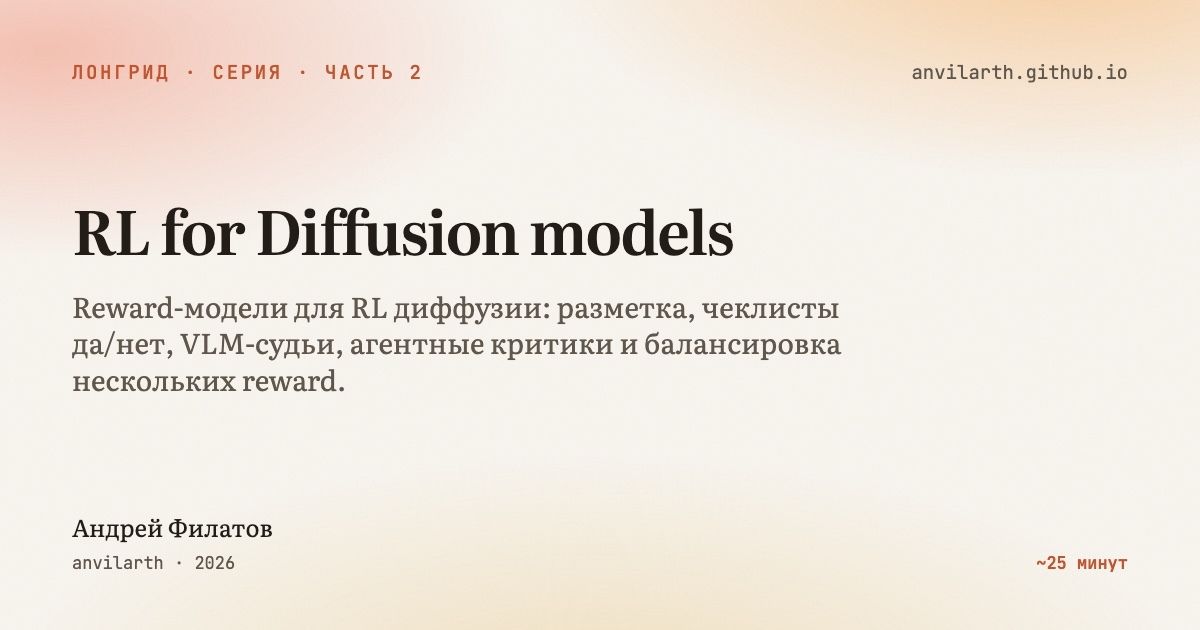
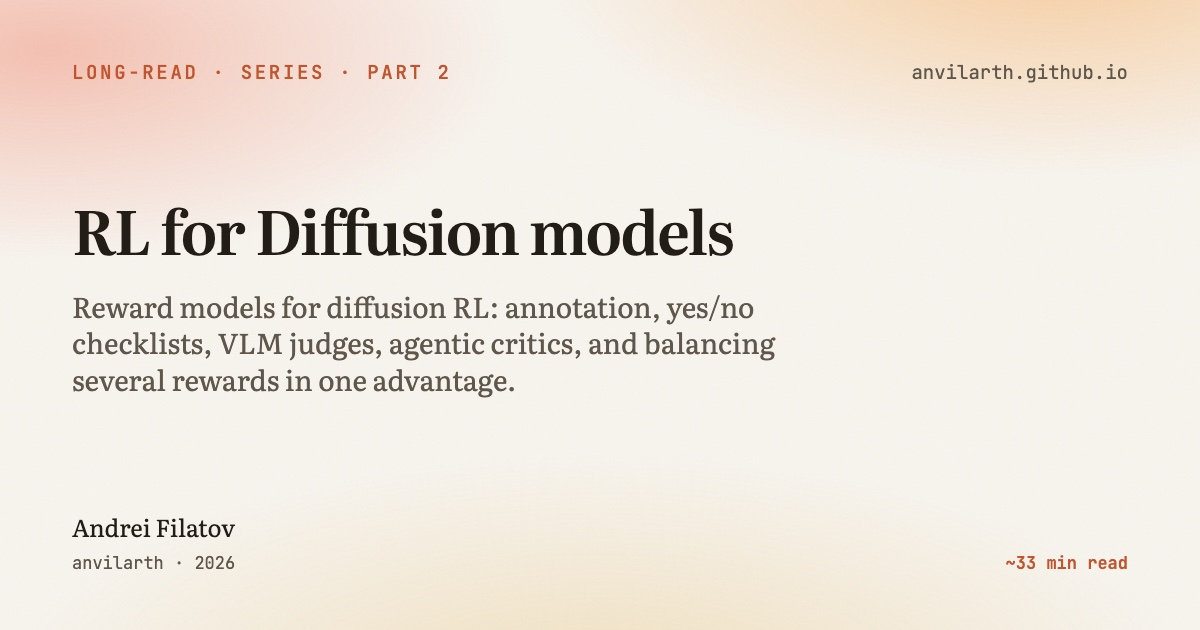
RL for Diffusion part 2: English social card
The OG card was rendered from the RU-only page; re-render it from the
bilingual page and version the image URL so X and Telegram refetch it.

Claude-Session: https://claude.ai/code/session_01Svmgwzak4UpTzaX98dpjHX

diff --git a/posts/rl-for-diffusion-part-2/post.html b/posts/rl-for-diffusion-part-2/post.html
@@ -17,13 +17,13 @@
 <meta property="og:url" content="https://anvilarth.github.io/rl-for-diffusion-part-2.html">
 <meta property="og:locale" content="en_US">
 <meta property="og:locale:alternate" content="ru_RU">
-<meta property="og:image" content="https://anvilarth.github.io/img/og/og-rl-for-diffusion-part-2.jpg">
+<meta property="og:image" content="https://anvilarth.github.io/img/og/og-rl-for-diffusion-part-2.jpg?v=2">
 <meta property="og:image:width" content="1200">
 <meta property="og:image:height" content="630">
 <meta name="twitter:card" content="summary_large_image">
 <meta name="twitter:title" content="RL for Diffusion models: Part 2">
 <meta name="twitter:description" content="Reward models for diffusion RL: annotation, yes/no checklists, VLM judges, agentic critics, and balancing several rewards in one advantage.">
-<meta name="twitter:image" content="https://anvilarth.github.io/img/og/og-rl-for-diffusion-part-2.jpg">
+<meta name="twitter:image" content="https://anvilarth.github.io/img/og/og-rl-for-diffusion-part-2.jpg?v=2">
 <script type="application/ld+json">{"@context": "https://schema.org", "@type": "BlogPosting", "headline": "RL for Diffusion models: Part 2", "inLanguage": ["en", "ru"], "datePublished": "2026-10-28", "author": {"@type": "Person", "name": "Andrei Filatov", "url": "https://anvilarth.github.io/"}, "mainEntityOfPage": "https://anvilarth.github.io/rl-for-diffusion-part-2.html", "description": "Reward models for diffusion RL: annotation, yes/no checklists, VLM judges, agentic critics, and balancing several rewards in one advantage."}</script>
 <link rel="stylesheet" href="assets/rl-for-diffusion-part-2/vendor/katex/katex.min.css">
 <script>(function(){try{var q=new URLSearchParams(location.search).get('theme');var t=(q==='dark'||q==='light')?q:localStorage.getItem('theme');if(t==='dark'||t==='light')document.documentElement.setAttribute('data-theme',t)}catch(e){}})();</script>
